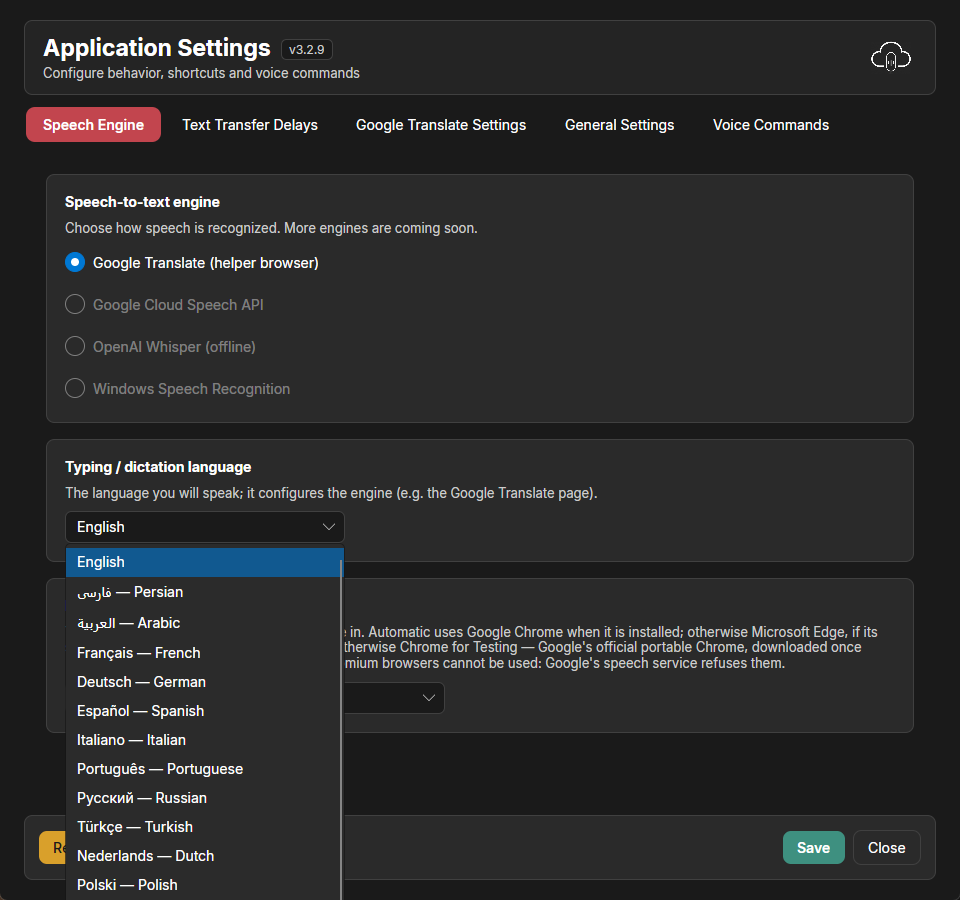
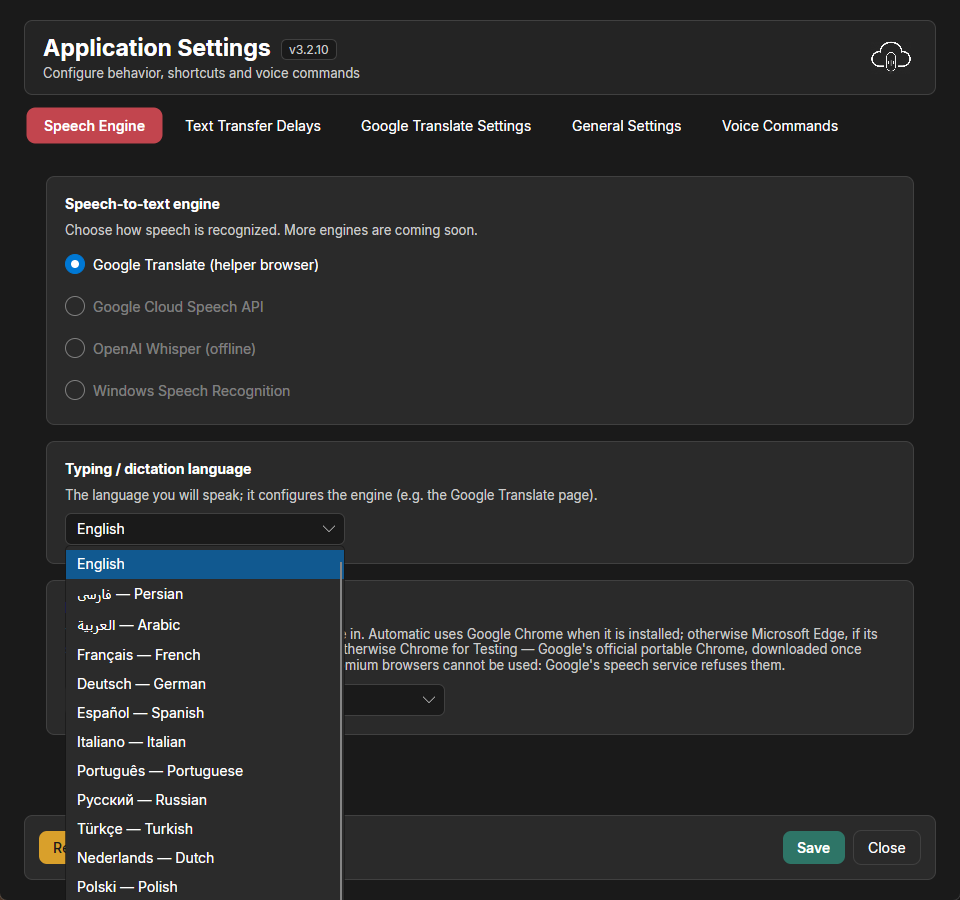
Cloudict 3.2.10: polish accessibility and small-window layouts with Impeccable

diff --git a/src/Cloudict.App/Views/MainWindow.axaml.cs b/src/Cloudict.App/Views/MainWindow.axaml.cs
@@ -1033,6 +1033,7 @@ namespace Cloudict.App.Views
                     IconBrowser.Data = shape;
 
                 TxtBrowserLabel.Text = Loc.Get(open ? "Main_CloseHelperBrowser" : "Main_OpenHelperBrowser");
+                Avalonia.Automation.AutomationProperties.SetName(BtnHelperBrowser, TxtBrowserLabel.Text);
 
                 // Colour carries the state as well as the icon. Closed is the accent red — something
                 // still to be done, since nothing can be dictated until the browser is up. Open is
@@ -1042,7 +1043,7 @@ namespace Cloudict.App.Views
                 BtnHelperBrowser.Classes.Set("subtle", open);
 
                 var foreground = open
-                    ? Application.Current?.FindResource("AccentHoverBrush") as IBrush
+                    ? Application.Current?.FindResource("ErrorTextBrush") as IBrush
                     : Brushes.White;
 
                 if (foreground != null)

diff --git a/src/Cloudict.App/Views/SettingsWindow.axaml.cs b/src/Cloudict.App/Views/SettingsWindow.axaml.cs
@@ -301,7 +301,7 @@ namespace Cloudict.App.Views
         {
             TxtSaveResult.Text = message;
             TxtSaveResult.IsVisible = true;
-            TxtSaveResult.Foreground = this.FindResource(success ? "SuccessBrush" : "AccentHoverBrush") as Avalonia.Media.IBrush
+            TxtSaveResult.Foreground = this.FindResource(success ? "SuccessTextBrush" : "ErrorTextBrush") as Avalonia.Media.IBrush
                                        ?? TxtSaveResult.Foreground;
 
             var shown = ++_saveResultToken;

diff --git a/docs/release-notes/v3.2.10.md b/docs/release-notes/v3.2.10.md
@@ -1,0 +1,59 @@
+## English
+
+Cloudict 3.2.10 improves continuous dictation, voice shortcuts and the desktop interface.
+
+This public update includes the intermediate 3.2.9 fixes plus a scoped Impeccable UI review: small-window scrolling, visible Save/Cancel, clearer button contrast, accessible control names, keyboard-focus outlines and left-to-right selector editing.
+
+- **Recover from a dropped microphone:** Cloudict watches Google Translate's own listening state,
+  preserves and transfers the unsent text once, and attempts to restart recognition before stopping.
+- **Release capture on Stop:** microphone access is released for the helper page even if its
+  microphone button is already off. Start restores access. Stopping retains the source text.
+- **Cleaner phrase starts:** invisible direction marks and zero-width editor placeholders no
+  longer introduce a leading space; ordinary word spacing and Persian joiners are preserved.
+- **Choose multi-key voice shortcuts:** select a main key and any combination of Ctrl, Alt, Shift
+  and Win / Cmd, including `Ctrl+Alt+S`. This avoids pressing an active global shortcut to define it.
+- **New bilingual screenshot guides:** actual English and Persian UI captures show voice commands,
+  text snippets, available actions, language selection and settings. Settings offers 18 dictation
+  languages; the interface is English or Persian.
+
+**Voice Stop example:** add “stop typing” → Send key → S → tick Ctrl and Alt → save the command
+and Settings. Speak the phrase while listening. Use your configured Stop shortcut if it differs
+from the default. Use Start to listen again afterwards.
+
+214 automated tests passed locally, with additional Windows UI, native key-injection and live
+Google Translate browser checks. These checks reproduce the failure paths; they do not establish
+that every intermittent network, device or editor issue has disappeared during hours of use.
+
+[English guide](https://github.com/farshad-zamani/cloudict#see-cloudict-in-action) ·
+[Validation details](https://github.com/farshad-zamani/cloudict/blob/v3.2.10/docs/RELEASE-3.2.10-VALIDATION.md)
+
+## فارسی
+
+نسخهٔ ۳.۲.۱۰ پایداری تایپ صوتی، تعریف میانبرهای صوتی و رابط برنامه را بهبود میدهد.
+این نسخه علاوه بر اصلاحات مرحلهٔ پیشین، نتیجهٔ مرور کلی رابط با Impeccable را هم دارد:
+دسترسی به بخشهای پایین در پنجرهٔ کوچک، دکمهٔ ذخیره و خطاهای همیشه قابل مشاهده، کنتراست بهتر،
+نامگذاری کنترلها برای ابزارهای دسترسپذیری، نمایش فوکوس صفحهکلید و ویرایش چپبهراست سلکتورها.
+
+- **بازیابی میکروفون قطعشده:** وضعیت خودِ گوگل ترنسلیت بررسی میشود؛ متن باقیمانده یکبار
+  منتقل میشود و پیش از توقف کامل، راهاندازی مجدد امتحان میشود.
+- **آزادشدن ضبط هنگام توقف:** دسترسی میکروفونِ صفحهٔ کمکی، حتی اگر دکمهٔ سایت خاموش باشد،
+  آزاد میشود و با شروع دوباره برمیگردد. توقف، متن داخل سایت را نگه میدارد.
+- **اصلاح فاصلهٔ ابتدای عبارت:** علائم نامرئی جهت متن و نویسههای بدون عرضِ ویرایشگر باعث درج
+  فاصلهٔ اضافه نمیشوند؛ فاصلهگذاری عادی و نیمفاصلهٔ فارسی حفظ شدهاند.
+- **تعریف دستور صوتی چندکلیدی:** کلید اصلی و هر ترکیبی از Ctrl، Alt، Shift و Win / Cmd را
+  جدا انتخاب کنید؛ از جمله `Ctrl+Alt+S`، بدون نیاز به فشردن میانبر فعال هنگام تعریف آن.
+- **معرفی تصویری دوزبانه:** تصاویر واقعی فارسی و انگلیسی، دستورات صوتی، متن آماده، انواع عملیات،
+  انتخاب زبان و تنظیمات را نشان میدهند. ۱۸ زبان دیکته قابل انتخاب است؛ رابط برنامه فارسی یا انگلیسی است.
+
+**نمونهٔ توقف با صدا:** «توقف تایپ» ← ارسال کلید ← S ← تیک Ctrl و Alt ← ذخیرهٔ دستور و تنظیمات.
+عبارت را هنگام فعالبودن دیکته بگویید. اگر میانبر توقف را تغییر دادهاید، همان ترکیب را انتخاب کنید.
+پس از توقف، با دکمه یا میانبر شروع، شنیدن را دوباره فعال کنید.
+
+۲۱۴ آزمون خودکار محلی، همراه با بررسی رابط ویندوز، ارسال واقعی کلید و صفحهٔ واقعی گوگل ترنسلیت
+موفق بودهاند. این بررسیها مسیر خطا را بازتولید میکنند؛ رفع تمام حالتهای پراکندهٔ شبکه، دستگاه و
+ویرایشگر در استفادهٔ چندساعته را تضمین نمیکنند.
+
+[راهنمای فارسی و تصاویر](https://github.com/farshad-zamani/cloudict/blob/main/README.fa.md#نمای-برنامه)
+
+
+[UI review](https://github.com/farshad-zamani/cloudict/blob/v3.2.10/docs/UI-REVIEW-3.2.10.md)

diff --git a/docs/RELEASE-3.2.10-VALIDATION.md b/docs/RELEASE-3.2.10-VALIDATION.md
@@ -1,0 +1,79 @@
+# Cloudict 3.2.10 verification
+
+Date: 2026-11-04. Scope: intermittent recognition stops, retained microphone capture, initial
+spacing in browser editors, multi-modifier voice commands, bilingual documentation and packages.
+
+## Findings and changes
+
+The former Windows UI microphone watch treated three negative machine-wide WASAPI samples as a
+reason to call Stop. It did not flush the pending source text or attempt recovery. This is a code
+path matching the reported symptoms; no trace from the user's original incidents was available,
+so it is not proof that every incident had the same cause. The watch is replaced by page-state
+checks in Core and a bounded recovery through the existing serialized flush/reset path.
+
+The engine previously reported a successful Start after clicking even when the page remained off.
+Start now verifies the listening state. Explicit Stop also revokes capture permission for the
+helper's Google Translate origin, and Start restores it. A browser stream can outlive the site's
+button state, so checking that button alone is insufficient to establish resource release.
+
+In a real Chrome contenteditable field, UI Automation reported U+200F and U+200B before the caret
+in otherwise empty fields. Both previously required a leading space. The caret probe now walks
+past layout markers; the spacing decision also excludes them. Actual whitespace and Persian
+U+200C/U+200D joiners keep their existing behavior. This is a limited fix for demonstrated markers,
+not a rewrite of caret inference for every VS Code extension. Some contenteditable providers omit
+trailing line breaks in their accessibility ranges; that separate case remains unproven here.
+
+The parser and native injectors already supported multiple modifiers. The editor now exposes
+independent checkboxes and a main-key selector, avoiding global-shortcut interception while
+defining a command. The existing saved format is unchanged.
+
+## Verification performed
+
+- Baseline: 191 tests passed before changes.
+- Updated Core suite: **214 tests passed**, including page loss with pending words, recovery before
+  speech, transient and unknown states, retry exhaustion, Stop during recovery, no duplicate
+  transfer, multi-modifier command execution and invisible-marker spacing.
+- A Stop shortcut delivered during a quick-transfer flush prevents both the later text and later
+  key commands in that flush from running. Recovery with pending words is tested in both live
+  injection and buffered-output modes.
+- Windows Release build and self-contained win-x64 publish succeeded. `--version` reports 3.2.10;
+  `--diagnose` resolves the bundled 156 driver against installed Chrome 156.
+- With a real Google Translate page in Chrome 156 and a synthetic audio device, a `getUserMedia`
+  stream was `live` while the page's voice button was off. Stop made its track `ended`; Start
+  restored permission to `granted` and the page to listening. Stop preserved test source text.
+- Chrome UI Automation probes: empty, direction-marker-only and zero-width-only fields report
+  whitespace/start after the change; Persian and Latin word endings still report their actual
+  last character. Probes are read-only and do not move the selection or clipboard.
+- A native Windows multi-modifier command produced one registered `Ctrl+Alt+Shift+F12` event and
+  released its modifiers. The exact `Ctrl+Alt+S` chord is covered through the parser, session and
+  real editor. Its native registration was already reserved on the test desktop, so another
+  application's reservation was left alone.
+- The real English and Persian command editors selected, saved and reloaded `Ctrl+Alt+S` correctly.
+  Screenshots were captured from running application windows with isolated sample settings, then
+  visually reviewed. No transfer-delay tab is included in the guide.
+
+## Limits and pre-existing findings
+
+No multi-hour reproduction of the user's original incident or visual observation of their Windows
+privacy indicator was available. The stream-ending check verifies capture release by the helper;
+another application's capture or Windows' delayed indicator refresh is outside that check.
+Linux/macOS packages use the repository's existing native GitHub Actions jobs; local interactive
+verification was on Windows. System-audio routing behavior and the user's saved settings were not
+changed by this update.
+
+The existing build emits NU1510 (redundant Registry reference), CS0067 (an unused notifier event),
+and AVLN3001 (views with parameterized constructors). It also reports **NU1903** for the existing
+transitive `Tmds.DBus.Protocol` 0.20.0 dependency used by Avalonia's Linux integration. That existing
+dependency issue is **not fixed in this release**; no claim of a security-clean dependency audit
+is made. See the [advisory and patched versions](https://github.com/advisories/GHSA-xrw6-gwf8-vvr9).
+
+## Rollback
+
+Reinstall 3.2.8 from the existing release if needed. There is no settings schema migration in
+3.2.10; existing commands keep the same format. A multi-modifier command is understood by 3.2.8's
+existing parser as well. The previous release and tag remain available.
+
+
+## Interface follow-up
+
+The final public build includes the [scoped Impeccable UI review](UI-REVIEW-3.2.10.md), normal/minimum-window checks, refreshed captures and the same 214-test regression suite. The intermediate v3.2.9 tag was retained; its packaging run was cancelled before publication.

diff --git a/docs/UI-REVIEW-3.2.10.md b/docs/UI-REVIEW-3.2.10.md
@@ -1,0 +1,57 @@
+# Cloudict UI review with Impeccable
+
+2026-11-04 · Scope: a light general review and narrow corrections to the existing Avalonia desktop
+interface, followed by a polish pass. The established dark palette, fonts, controls and workflow
+are retained. This review uses Impeccable's audit, hardening and polish guidance.
+
+## Result
+
+The interface has a coherent desktop-tool identity: shared color resources, consistent typography,
+real English/Persian localization and standard Avalonia controls. It passes this limited review
+after the corrections below. It is not a complete accessibility or performance certification.
+
+| Dimension | Score / 4 | Evidence and limits |
+|---|---:|---|
+| Accessibility | 3 | Essential icon buttons and inputs named; affected contrast pairs corrected; keyboard focus checked. Full Narrator traversal remains untested. |
+| Performance | 3 | Existing DataGrid virtualization and background speech processing retained. No new timers or animations. No profiling performed in this pass. |
+| Theming | 3 | Shared palette retained; status text separated from button fills. Some existing hard-coded colors remain. |
+| Window resizing | 3 | English/Persian main, settings and editor checked at normal and declared minimum sizes. All monitor/DPI combinations remain untested. |
+| Implementation integrity | 3 | Small changes to existing layouts and semantic tokens; no replacement visual system. Avalonia has no DOM/CDP target for the web detector. |
+| **Total** | **15 / 20** | **Good within the stated review scope.** |
+
+## Verified findings and corrections
+
+1. **P1 — Small windows hid controls.** At 470×560, the main window's final-text controls overlapped
+   its footer. At 600×460, the command editor pushed Save below the client area. The main text area
+   and editor form now scroll within their available space; footer actions remain visible. The main
+   header uses separate columns so Settings and the wordmark do not collide at narrow widths.
+2. **P1 — Some text/fill contrast pairs failed 4.5:1.** White text on the old green fill measured
+   3.81:1, its hover 3.13:1, and the red hover 3.90:1. The revised green pairs measure **5.45:1** and
+   **4.81:1**; red hover **4.57:1**. Success text on the panel uses a separate light green token at
+   **7.23:1**. Error text has its own light red token. Disabled controls are not included in these
+   text contrast claims.
+3. **P2 — Icon-only controls lacked explicit names.** Start, Stop, and the two Copy/Clear pairs
+   now have distinct localized accessibility names and tooltips. Recognized/final text fields and
+   command phrase/action/value controls are named. The helper-browser button's accessible name
+   follows its Open/Close state.
+4. **P2 — Custom tab styling did not explicitly show keyboard focus.** Tabs now have a visible
+   outline for keyboard focus without changing the selected tab or its meaning.
+5. **P2 — Technical selectors inherited Persian direction.** XPath and CSS selector fields now
+   edit left-to-right while their Persian labels and surrounding layout remain right-to-left.
+   Command validation errors stay in the editor footer, visible even when the form is scrolled.
+
+## Checks
+
+- Real application windows, with isolated sample settings, in English and Persian.
+- Normal sizes: main 520×820; settings 960×900 where the work area permits; editor 720×700.
+- Minimum sizes: main 470×560; settings 820×520; editor 600×460.
+- Main text area scrolled to reach its lower controls; editor scrolled through its form/help while
+  Save remained inside the client area. Footer bounds were checked programmatically.
+- Voice-command selection/save/reload remained functional after the layout changes.
+- Color ratios calculated from the actual shared sRGB palette using relative luminance.
+- Source detector output checked as a supplementary scan. It is not a substitute for rendered
+  Avalonia review and does not establish native accessibility compliance.
+
+Remaining broader work, if pursued separately: full screen-reader traversal, mixed-DPI monitor
+coverage, high-contrast system themes and measured rendering performance. The appropriate next
+passes are Impeccable `harden`/`adapt` for those specific findings, followed by `polish`.

diff --git a/CHANGELOG.md b/CHANGELOG.md
@@ -8,6 +8,24 @@ project aims to follow [Semantic Versioning](https://semver.org/).
 > over a long period before being published as free, open-source software. The entries below
 > document the public releases.
 
+## [3.2.10] – 2026-11-04
+
+Includes all microphone, spacing and voice-command corrections listed under 3.2.9 below.
+The 3.2.9 tag was an intermediate build; its release workflow was cancelled before publication
+so the UI review could be included in this public update.
+
+### Fixed
+- Main text panels scroll at small window sizes, and the command editor keeps Save/Cancel and
+  validation errors visible while its form and help scroll.
+- Button and status-text contrast improved while retaining the existing dark theme.
+- Start/Stop, Copy/Clear and essential editor fields have localized accessibility names.
+- Keyboard-focused settings tabs have a visible outline; technical selector fields edit left-to-right.
+- The Settings button and wordmark no longer share the same header space at narrow widths.
+
+### Documentation
+- Refreshed English/Persian application screenshots and recorded the scoped Impeccable UI review
+  in [docs/UI-REVIEW-3.2.10.md](docs/UI-REVIEW-3.2.10.md).
+
 ## [3.2.9] – 2026-11-04
 
 ### Fixed

diff --git a/README.fa.md b/README.fa.md
@@ -111,6 +111,9 @@ Cloudict گفتار شما را به متن تبدیل میکند و مستق
 
 </details>
 
+سناریوهای بررسیشده و محدودیتهای باقیمانده در [گزارش اعتبارسنجی نسخه](docs/RELEASE-3.2.10-VALIDATION.md)
+و [مرور محدود رابط با Impeccable](docs/UI-REVIEW-3.2.10.md) ثبت شدهاند.
+
 ## پیشنیازها
 
 - **یک مرورگر کمکی — معمولاً بدون نیاز به نصب چیزی.** Cloudict گوگل ترنسلیت را در یک پنجرهٔ مرورگر

diff --git a/README.md b/README.md
@@ -111,6 +111,9 @@ is available in **English and Persian**.
 
 </details>
 
+For tested scenarios and remaining limits, see the [release verification](docs/RELEASE-3.2.10-VALIDATION.md)
+and [scoped UI review](docs/UI-REVIEW-3.2.10.md).
+
 ## Requirements
 
 - **A helper browser — usually nothing to install.** Cloudict opens Google Translate in a browser
